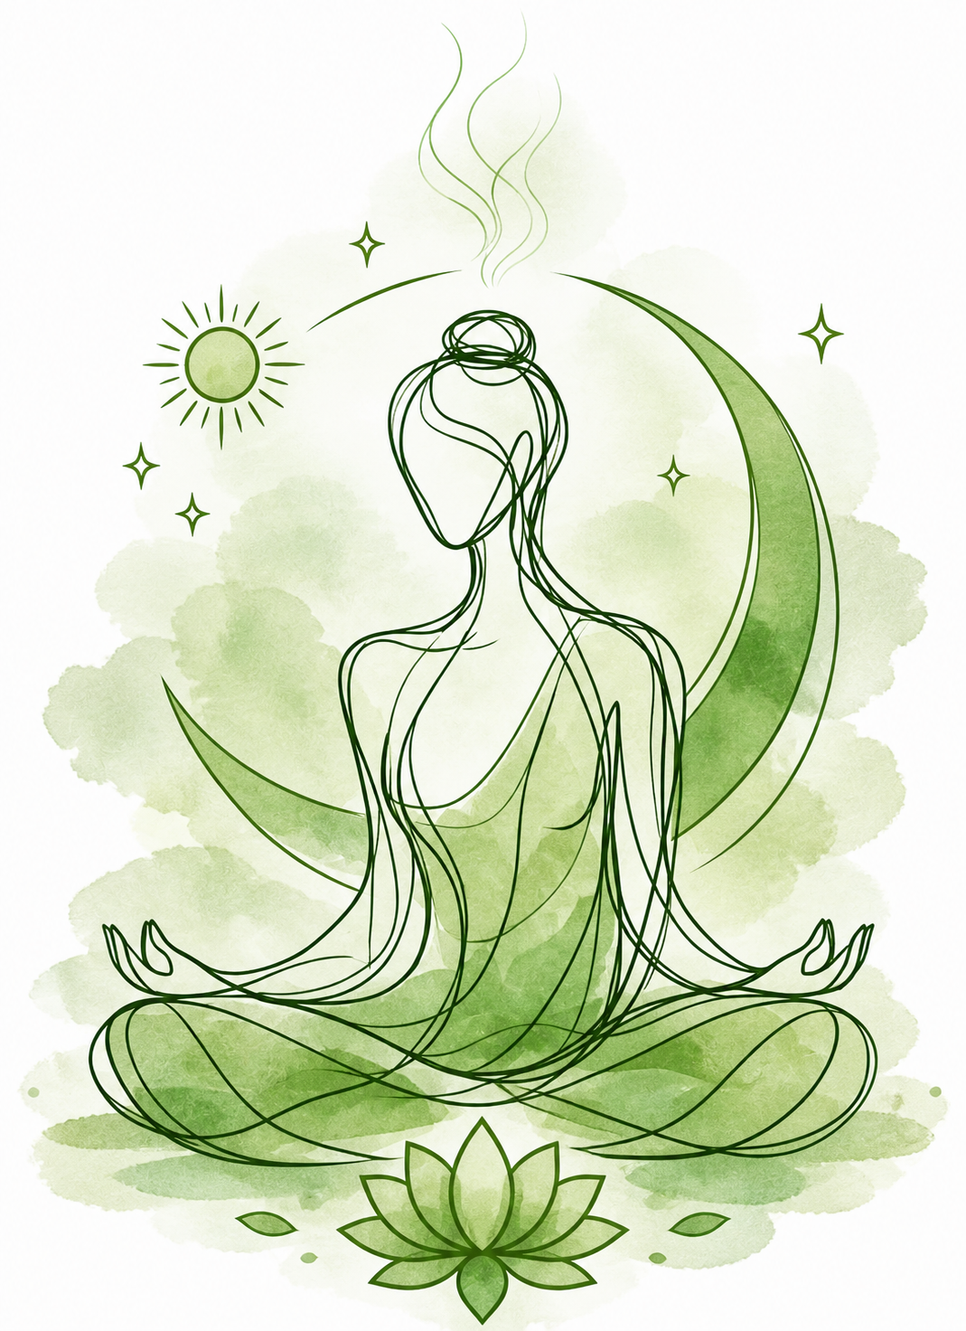
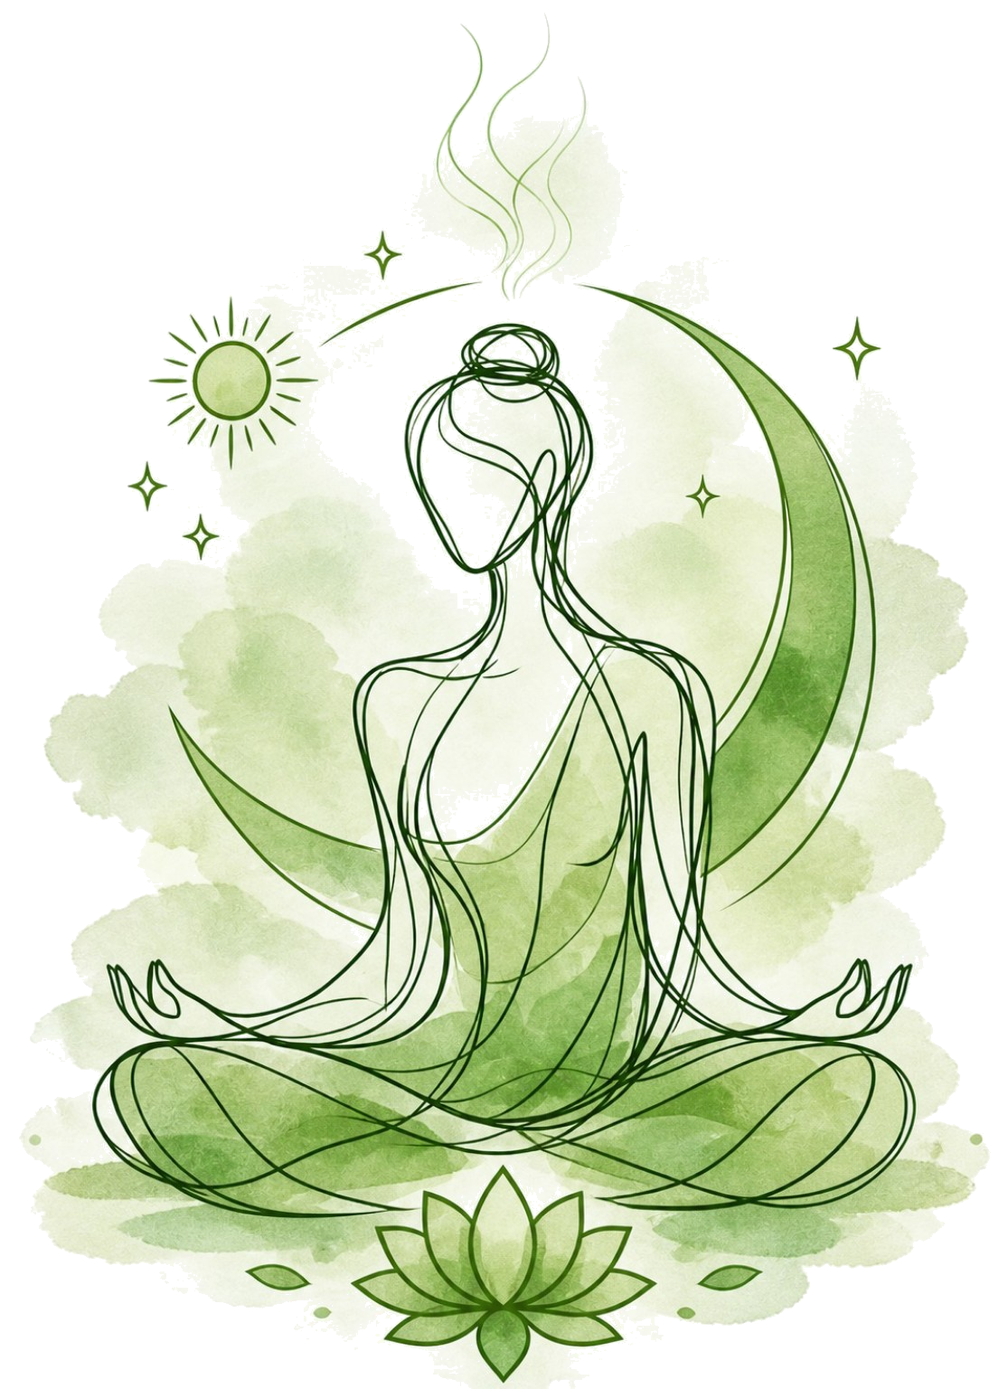
updated website

diff --git a/index.html b/index.html
@@ -3,8 +3,11 @@
 <head>
     <meta charset="UTF-8">
     <meta name="viewport" content="width=device-width, initial-scale=1.0">
-    <title>SK Yoga Classes | Jodhpur</title>
-    <meta name="description" content="Join Kamlesh Sir for traditional yoga classes in Jodhpur. Authentic Indian tradition for all ages. Hatha, Vinyasa, Pranayama, and Meditation.">
+    <title>S.K. Yoga Center Jodhpur | Traditional Yoga Classes</title>
+    <meta name="description" content="S.K. Yoga Center in Jodhpur — traditional yoga for all ages and families. Hatha, Vinyasa, Pranayama, Meditation. 16 years of experience. Guided by Kamlesh Sir.">
+    <meta name="keywords" content="yoga classes jodhpur, sk yoga center jodhpur, kamlesh sir yoga, hatha yoga jodhpur, yoga for beginners jodhpur, family yoga jodhpur, b road jodhpur yoga, yoga alliance jodhpur">
+    <meta name="geo.region" content="IN-RJ">
+    <meta name="geo.placename" content="Jodhpur">
     <link rel="preconnect" href="https://fonts.googleapis.com">
     <link rel="preconnect" href="https://fonts.gstatic.com" crossorigin>
     <link href="https://fonts.googleapis.com/css2?family=Cinzel:ital,wght@0,400;0,600;1,400&family=Jost:ital,wght@0,300;0,400;0,500;1,300&display=swap" rel="stylesheet">
@@ -15,7 +18,7 @@
     <!-- Section 1: Navbar -->
     <nav id="navbar" class="navbar">
         <div class="nav-container">
-            <div class="logo">SK Yoga Classes</div>
+            <div class="logo"><img src="SK yoga.jpeg" alt="S.K. Yoga Center Logo" style="height: 52px; width: 52px; object-fit: cover; border-radius: 50%; vertical-align: middle; margin-right: 8px;">S.K. Yoga Center</div>
             <div class="hamburger" id="hamburger">
                 <span></span>
                 <span></span>
@@ -33,7 +36,7 @@
     </nav>
 
     <!-- Floating WhatsApp Button -->
-    <a href="https://wa.me/91XXXXXXXXXX" class="floating-wa" target="_blank" rel="noopener noreferrer">
+    <a href="https://wa.me/919413501948?text=Hello%2C%20I%20am%20enquiring%20about%20yoga%20classes%20at%20S.K.%20Yoga%20Center%2C%20Jodhpur.%20Could%20you%20please%20share%20more%20details%3F" class="floating-wa" target="_blank" rel="noopener noreferrer">
         <svg viewBox="0 0 24 24" fill="currentColor" xmlns="http://www.w3.org/2000/svg">
             <path d="M12.031 0C5.4 0 .025 5.378.025 12.012c0 2.118.55 4.186 1.595 6.009L0 24l6.126-1.606c1.782.95 3.791 1.453 5.898 1.453h.005c6.629 0 12.004-5.379 12.004-12.013C24.033 5.378 18.66 0 12.031 0zm0 21.849h-.004c-1.788 0-3.541-.48-5.077-1.39l-.364-.216-3.774.989.999-3.681-.237-.377a10.02 10.02 0 01-1.543-5.328C2.03 5.485 7.4 1.115 12.031 1.115c4.633 0 10.003 4.37 10.003 10.005 0 5.632-5.37 10.729-10.003 10.729zm5.482-7.51c-.302-.15-1.782-.879-2.062-.979-.279-.1-.483-.15-.684.15-.202.302-.784.979-.96 1.18-.178.2-.355.225-.657.075-.302-.15-1.272-.468-2.42-1.49-.894-.796-1.498-1.78-1.674-2.08-.178-.3-.02-.465.13-.615.137-.137.302-.35.454-.525.15-.175.202-.3.302-.5.1-.2.05-.375-.025-.525-.075-.15-.684-1.65-.935-2.26-.245-.595-.494-.515-.684-.525-.178-.01-.383-.01-.584-.01-.2 0-.528.075-.805.375-.279.3-1.056 1.03-1.056 2.51s1.08 2.91 1.232 3.11c.15.2 2.118 3.23 5.127 4.53.715.31 1.274.495 1.708.635.719.23 1.373.195 1.888.12.576-.085 1.782-.73 2.034-1.435.252-.705.252-1.31.178-1.435-.075-.125-.279-.2-.581-.35z"/>
         </svg>
@@ -43,14 +46,14 @@
     <section id="home" class="hero section-padding">
         <div class="hero-content">
             <div class="hero-text">
-                <span class="label animate-element">SK Yoga Classes &middot; Jodhpur</span>
+                <span class="label animate-element">S.K. YOGA CENTER &middot; JODHPUR</span>
                 <h1 class="animate-element">Find Your Stillness.</h1>
                 <p class="subheading animate-element">Motion to Meditation</p>
                 <p class="body-text animate-element">Join Kamlesh Sir for traditional yoga classes in Jodhpur. All ages. All levels. All welcome.</p>
-                <a href="#classes" class="btn animate-element">Join a Class &rarr;</a>
+                <a href="https://wa.me/919413501948?text=Hello%2C%20I%20am%20enquiring%20about%20yoga%20classes%20at%20S.K.%20Yoga%20Center%2C%20Jodhpur.%20Could%20you%20please%20share%20more%20details%3F" class="btn animate-element" target="_blank" rel="noopener noreferrer">Join a Class &rarr;</a>
             </div>
             <div class="hero-image">
-                <img src="img1.png" alt="Yoga practice at SK Yoga Classes" loading="eager" class="animate-element">
+                <img src="img1.png" alt="Yoga practice at S.K. Yoga Center" loading="eager" class="animate-element">
             </div>
         </div>
     </section>
@@ -93,9 +96,9 @@
                 <span class="label animate-element">About Kamlesh Sir</span>
                 <h2 class="animate-element">Motion to Meditation.</h2>
                 <div class="gold-rule animate-element"></div>
-                <p class="animate-element">Kamlesh Sir has been guiding students through the ancient practice of yoga for over 20 years in the heart of Jodhpur, Rajasthan.</p>
-                <p class="animate-element">His teaching is rooted in classical Indian tradition — Hatha, Vinyasa, Pranayama, and deep Meditation — offered with warmth, patience, and devotion to every student who walks through the door.</p>
-                <p class="animate-element">Whether you are 8 or 80, a complete beginner or an experienced practitioner, SK Yoga Classes is your sanctuary.</p>
+                <p class="animate-element">Kamlesh Sir has been guiding students through the ancient practice of yoga for over 16 years in the heart of Jodhpur, Rajasthan.</p>
+                <p class="animate-element">His teaching is rooted in classical Indian tradition — Hatha, Vinyasa, Pranayama, and deep Meditation — offered with warmth, patience, and devotion to every student who walks through the door. He holds a Diploma in Yoga, M.A in Yoga, NET and JRF in Yoga, and is a certified Yoga Alliance 500-hour teacher.</p>
+                <p class="animate-element">Whether you are 8 or 80, a complete beginner or an experienced practitioner, S.K. Yoga Center is your sanctuary.</p>
                 <blockquote class="animate-element">Yoga is not what you do — it is what you become.</blockquote>
             </div>
             <div class="about-image">
@@ -121,7 +124,7 @@
                             <span class="tag">All Levels</span>
                             <span class="tag">Beginner</span>
                         </div>
-                        <a href="https://wa.me/91XXXXXXXXXX" class="enquire-link" target="_blank">Enquire &rarr;</a>
+                        <a href="https://wa.me/919413501948?text=Hello%2C%20I%20am%20enquiring%20about%20yoga%20classes%20at%20S.K.%20Yoga%20Center%2C%20Jodhpur.%20Could%20you%20please%20share%20more%20details%3F" class="enquire-link" target="_blank">Enquire &rarr;</a>
                     </div>
                 </div>
 
@@ -134,7 +137,7 @@
                             <span class="tag">All Levels</span>
                             <span class="tag">Advanced</span>
                         </div>
-                        <a href="https://wa.me/91XXXXXXXXXX" class="enquire-link" target="_blank">Enquire &rarr;</a>
+                        <a href="https://wa.me/919413501948?text=Hello%2C%20I%20am%20enquiring%20about%20yoga%20classes%20at%20S.K.%20Yoga%20Center%2C%20Jodhpur.%20Could%20you%20please%20share%20more%20details%3F" class="enquire-link" target="_blank">Enquire &rarr;</a>
                     </div>
                 </div>
 
@@ -146,7 +149,7 @@
                         <div class="tags">
                             <span class="tag">All Levels</span>
                         </div>
-                        <a href="https://wa.me/91XXXXXXXXXX" class="enquire-link" target="_blank">Enquire &rarr;</a>
+                        <a href="https://wa.me/919413501948?text=Hello%2C%20I%20am%20enquiring%20about%20yoga%20classes%20at%20S.K.%20Yoga%20Center%2C%20Jodhpur.%20Could%20you%20please%20share%20more%20details%3F" class="enquire-link" target="_blank">Enquire &rarr;</a>
                     </div>
                 </div>
 
@@ -158,7 +161,7 @@
                         <div class="tags">
                             <span class="tag">All Levels</span>
                         </div>
-                        <a href="https://wa.me/91XXXXXXXXXX" class="enquire-link" target="_blank">Enquire &rarr;</a>
+                        <a href="https://wa.me/919413501948?text=Hello%2C%20I%20am%20enquiring%20about%20yoga%20classes%20at%20S.K.%20Yoga%20Center%2C%20Jodhpur.%20Could%20you%20please%20share%20more%20details%3F" class="enquire-link" target="_blank">Enquire &rarr;</a>
                     </div>
                 </div>
 
@@ -169,49 +172,70 @@
                         <p>Practice together. Classes designed for families of all ages.</p>
                         <div class="tags">
                             <span class="tag">All Levels</span>
-                            <span class="tag">Families</span>
                         </div>
-                        <a href="https://wa.me/91XXXXXXXXXX" class="enquire-link" target="_blank">Enquire &rarr;</a>
+                        <a href="https://wa.me/919413501948?text=Hello%2C%20I%20am%20enquiring%20about%20yoga%20classes%20at%20S.K.%20Yoga%20Center%2C%20Jodhpur.%20Could%20you%20please%20share%20more%20details%3F" class="enquire-link" target="_blank">Enquire &rarr;</a>
                     </div>
                 </div>
             </div>
+            <p style="font-family: 'Jost', sans-serif; font-weight: 300; font-style: italic; text-align: center; color: #7AB896; margin-top: 2rem;">Also teaching at Center Academy School and Jai Narayan University, Jodhpur.</p>
         </div>
     </section>
 
     <!-- Section 6: Why Choose Us -->
     <section class="why-us section-padding">
         <div class="why-container">
-            <h2 class="animate-element">Why SK Yoga Classes</h2>
+            <h2 class="animate-element">Why S.K. Yoga Center</h2>
             <div class="why-grid">
                 <div class="why-card animate-card">
                     <div class="icon">
                         <svg viewBox="0 0 24 24" fill="none" stroke="currentColor" stroke-width="2" stroke-linecap="round" stroke-linejoin="round"><path d="M12 2l3 6 6 .5-4.5 4 1.5 6-6-3.5-6 3.5 1.5-6-4.5-4 6-.5 3-6z"/></svg>
                     </div>
                     <h3>Expert Guidance</h3>
-                    <p>Over 20 years of classical yoga teaching experience.</p>
+                    <p>Over 16 years of classical yoga teaching with Yoga Alliance 500-hour certification.</p>
                 </div>
                 <div class="why-card animate-card">
                     <div class="icon">
                         <svg viewBox="0 0 24 24" fill="none" stroke="currentColor" stroke-width="2" stroke-linecap="round" stroke-linejoin="round"><path d="M17 21v-2a4 4 0 0 0-4-4H5a4 4 0 0 0-4 4v2"/><circle cx="9" cy="7" r="4"/><path d="M23 21v-2a4 4 0 0 0-3-3.87"/><path d="M16 3.13a4 4 0 0 1 0 7.75"/></svg>
                     </div>
                     <h3>All Ages & Families</h3>
-                    <p>From children to seniors, everyone is welcome.</p>
+                    <p>From children to seniors, everyone is welcome at our studio.</p>
                 </div>
                 <div class="why-card animate-card">
                     <div class="icon">
                         <svg viewBox="0 0 24 24" fill="none" stroke="currentColor" stroke-width="2" stroke-linecap="round" stroke-linejoin="round"><circle cx="12" cy="12" r="10"/><path d="M2 12h20"/><path d="M12 2a15.3 15.3 0 0 1 4 10 15.3 15.3 0 0 1-4 10 15.3 15.3 0 0 1-4-10 15.3 15.3 0 0 1 4-10z"/></svg>
                     </div>
                     <h3>Authentic Indian Tradition</h3>
-                    <p>Classical Hatha, Pranayama, and Vedic practices.</p>
+                    <p>Classical Hatha, Pranayama, and Vedic practices rooted in Indian yoga tradition.</p>
                 </div>
                 <div class="why-card animate-card">
                     <div class="icon">
                         <svg viewBox="0 0 24 24" fill="none" stroke="currentColor" stroke-width="2" stroke-linecap="round" stroke-linejoin="round"><path d="M21 10c0 7-9 13-9 13s-9-6-9-13a9 9 0 0 1 18 0z"/><circle cx="12" cy="10" r="3"/></svg>
                     </div>
                     <h3>Heart of Jodhpur</h3>
-                    <p>Your trusted local studio in the Blue City.</p>
+                    <p>Your trusted local studio on 'B' Road, Jodhpur — the Blue City.</p>
                 </div>
             </div>
+        </div>
+    </section>
+
+    <!-- Section 6.5: Class Timings -->
+    <section class="timings" style="background: #0f1a14; text-align: center; padding: 3rem 2rem;">
+        <div style="max-width: 620px; margin: 0 auto;">
+            <h2 class="animate-element" style="font-family: 'Cinzel', serif; margin-bottom: 0.4rem; color: #C8E6D4;">Class Timings</h2>
+            <p class="section-sub animate-element" style="margin-bottom: 1.4rem;">Monday to Saturday &mdash; Sunday closed</p>
+            <hr style="border: none; border-top: 1px solid rgba(122,184,150,0.2); margin-bottom: 1.2rem;">
+            <div style="display: flex; flex-direction: column; gap: 0.7rem; margin-bottom: 1.2rem;">
+                <p class="animate-element" style="font-family: 'Jost', sans-serif; font-weight: 400; font-size: 16px; color: #C8E6D4; margin: 0; display: flex; align-items: center; justify-content: center; gap: 0.6rem;">
+                    <svg width="8" height="8" viewBox="0 0 8 8" fill="#7AB896" xmlns="http://www.w3.org/2000/svg"><circle cx="4" cy="4" r="4"/></svg>
+                    Morning Batch: 5:00 AM &ndash; 10:00 AM
+                </p>
+                <p class="animate-element" style="font-family: 'Jost', sans-serif; font-weight: 400; font-size: 16px; color: #C8E6D4; margin: 0; display: flex; align-items: center; justify-content: center; gap: 0.6rem;">
+                    <svg width="8" height="8" viewBox="0 0 8 8" fill="#7AB896" xmlns="http://www.w3.org/2000/svg"><circle cx="4" cy="4" r="4"/></svg>
+                    Evening Batch: 4:00 PM &ndash; 7:30 PM
+                </p>
+            </div>
+            <hr style="border: none; border-top: 1px solid rgba(122,184,150,0.2); margin-bottom: 1.2rem;">
+            <p class="animate-element" style="font-family: 'Cinzel', serif; font-style: italic; font-size: 15px; color: #7AB896; margin: 0;">First 2 days are FREE &mdash; come visit and try a class on us.</p>
         </div>
     </section>
 
@@ -232,7 +256,7 @@
                         <li>Family discount available</li>
                         <li>Personal guidance from Kamlesh Sir</li>
                     </ul>
-                    <a href="https://wa.me/91XXXXXXXXXX" class="price-btn" target="_blank">Enquire on WhatsApp &rarr;</a>
+                    <a href="https://wa.me/919413501948?text=Hello%2C%20I%20am%20enquiring%20about%20yoga%20classes%20at%20S.K.%20Yoga%20Center%2C%20Jodhpur.%20Could%20you%20please%20share%20more%20details%3F" class="price-btn" target="_blank">Enquire on WhatsApp &rarr;</a>
                 </div>
 
                 <div class="price-card featured animate-card">
@@ -246,7 +270,7 @@
                         <li>Family discount available</li>
                         <li>Personal guidance from Kamlesh Sir</li>
                     </ul>
-                    <a href="https://wa.me/91XXXXXXXXXX" class="price-btn" target="_blank">Enquire on WhatsApp &rarr;</a>
+                    <a href="https://wa.me/919413501948?text=Hello%2C%20I%20am%20enquiring%20about%20yoga%20classes%20at%20S.K.%20Yoga%20Center%2C%20Jodhpur.%20Could%20you%20please%20share%20more%20details%3F" class="price-btn" target="_blank">Enquire on WhatsApp &rarr;</a>
                 </div>
 
                 <div class="price-card animate-card">
@@ -259,7 +283,7 @@
                         <li>Family discount available</li>
                         <li>Personal guidance from Kamlesh Sir</li>
                     </ul>
-                    <a href="https://wa.me/91XXXXXXXXXX" class="price-btn" target="_blank">Enquire on WhatsApp &rarr;</a>
+                    <a href="https://wa.me/919413501948?text=Hello%2C%20I%20am%20enquiring%20about%20yoga%20classes%20at%20S.K.%20Yoga%20Center%2C%20Jodhpur.%20Could%20you%20please%20share%20more%20details%3F" class="price-btn" target="_blank">Enquire on WhatsApp &rarr;</a>
                 </div>
             </div>
         </div>
@@ -273,7 +297,7 @@
 
             <div class="masonry-grid">
                 <div class="masonry-item animate-card" style="height: 200px;">
-                    <div class="gallery-placeholder">Yoga class photo</div>
+                    <img src="Screenshot 2026-03-14 153500.png" alt="Yoga class photo" style="width: 100%; height: 100%; object-fit: cover;">
                     <div class="overlay"><span>View +</span></div>
                 </div>
                 <div class="masonry-item animate-card" style="height: 260px;">
@@ -304,7 +328,7 @@
     <div id="lightbox" class="lightbox">
         <button id="lightbox-close" class="lightbox-close">&times;</button>
         <div class="lightbox-content">
-            <div class="lightbox-placeholder">Yoga class photo</div>
+            <img id="lightbox-img" src="" alt="Gallery Image">
         </div>
     </div>
 
@@ -322,7 +346,7 @@
                         <div class="avatar">SK</div>
                         <div class="author-info">
                             <span class="name">SK</span>
-                            <span class="title">Student &middot; SK Yoga Classes</span>
+                            <span class="title">Student &middot; S.K. Yoga Center</span>
                         </div>
                     </div>
                 </div>
@@ -335,7 +359,7 @@
                         <div class="avatar">RP</div>
                         <div class="author-info">
                             <span class="name">RP</span>
-                            <span class="title">Student &middot; SK Yoga Classes</span>
+                            <span class="title">Student &middot; S.K. Yoga Center</span>
                         </div>
                     </div>
                 </div>
@@ -348,7 +372,7 @@
                         <div class="avatar">AM</div>
                         <div class="author-info">
                             <span class="name">AM</span>
-                            <span class="title">Student &middot; SK Yoga Classes</span>
+                            <span class="title">Student &middot; S.K. Yoga Center</span>
                         </div>
                     </div>
                 </div>
@@ -360,8 +384,8 @@
     <section class="cta-band section-padding">
         <div class="cta-container">
             <h2 class="animate-element">Begin Your Journey.</h2>
-            <p class="animate-element">Join SK Yoga Classes in Jodhpur. All ages. All levels. All welcome.</p>
-            <a href="https://wa.me/91XXXXXXXXXX" class="cta-btn animate-element" target="_blank">Chat With Us on WhatsApp &rarr;</a>
+            <p class="animate-element">Join S.K. Yoga Center in Jodhpur. All ages. All levels. All welcome.</p>
+            <a href="https://wa.me/919413501948?text=Hello%2C%20I%20am%20enquiring%20about%20yoga%20classes%20at%20S.K.%20Yoga%20Center%2C%20Jodhpur.%20Could%20you%20please%20share%20more%20details%3F" class="cta-btn animate-element" target="_blank">Chat With Us on WhatsApp &rarr;</a>
         </div>
     </section>
 
@@ -369,38 +393,39 @@
     <section id="contact" class="contact section-padding">
         <div class="contact-container">
             <div class="contact-left animate-element">
-                <span class="label">Find Us</span>
-                <h2>Visit SK Yoga Classes</h2>
+                <span class="label">FIND US</span>
+                <h2>Visit S.K. Yoga Center</h2>
                 <div class="details">
-                    <p>📍 Jodhpur, Rajasthan</p>
-                    <p>📞 +91 XXXXXXXXXX</p>
-                    <p>⏰ Morning Batch: 6:00 AM &ndash; 8:00 AM</p>
-                    <p>⏰ Evening Batch: 5:30 PM &ndash; 7:30 PM</p>
+                    <p>&#128205; Bhagoy Shree Tower, Jahm Villas, Near Hawant Garden, Pota 'B' Road, Jodhpur, Rajasthan 342001</p>
+                    <p>&#128222; +91 94135 01948</p>
+                    <p>&#128222; +91 74249 68930</p>
+                    <p>&#9200; Morning Batch: 5:00 AM &ndash; 10:00 AM</p>
+                    <p>&#9200; Evening Batch: 4:00 PM &ndash; 7:30 PM</p>
                 </div>
-                <a href="https://wa.me/91XXXXXXXXXX" class="contact-btn" target="_blank">Message on WhatsApp &rarr;</a>
+                <a href="https://wa.me/919413501948?text=Hello%2C%20I%20am%20enquiring%20about%20yoga%20classes%20at%20S.K.%20Yoga%20Center%2C%20Jodhpur.%20Could%20you%20please%20share%20more%20details%3F" class="contact-btn" target="_blank">Message on WhatsApp &rarr;</a>
                 <div class="socials">
-                    <a href="#" aria-label="Instagram">
+                    <a href="https://www.instagram.com/sk_yoga_center" aria-label="Instagram" target="_blank" rel="noopener noreferrer">
                         <svg viewBox="0 0 24 24" fill="none" stroke="currentColor" stroke-width="2" stroke-linecap="round" stroke-linejoin="round"><rect x="2" y="2" width="20" height="20" rx="5" ry="5"/><path d="M16 11.37A4 4 0 1 1 12.63 8 4 4 0 0 1 16 11.37z"/><line x1="17.5" y1="6.5" x2="17.51" y2="6.5"/></svg>
                     </a>
-                    <a href="#" aria-label="Facebook">
+                    <a href="https://www.facebook.com/search/top?q=Kamlesh+Yogi" aria-label="Facebook" target="_blank" rel="noopener noreferrer">
                         <svg viewBox="0 0 24 24" fill="none" stroke="currentColor" stroke-width="2" stroke-linecap="round" stroke-linejoin="round"><path d="M18 2h-3a5 5 0 0 0-5 5v3H7v4h3v8h4v-8h3l1-4h-4V7a1 1 0 0 1 1-1h3z"/></svg>
                     </a>
-                    <a href="#" aria-label="YouTube">
+                    <a href="https://www.youtube.com/results?search_query=Kamlesh+Perjapati" aria-label="YouTube" target="_blank" rel="noopener noreferrer">
                         <svg viewBox="0 0 24 24" fill="none" stroke="currentColor" stroke-width="2" stroke-linecap="round" stroke-linejoin="round"><path d="M22.54 6.42a2.78 2.78 0 0 0-1.94-2C18.88 4 12 4 12 4s-6.88 0-8.6.46a2.78 2.78 0 0 0-1.94 2A29 29 0 0 0 1 11.75a29 29 0 0 0 .46 5.33 2.78 2.78 0 0 0 1.94 2c1.72.46 8.6.46 8.6.46s6.88 0 8.6-.46a2.78 2.78 0 0 0 1.94-2 29 29 0 0 0 .46-5.33 29 29 0 0 0-.46-5.33z"/><polygon points="9.75 15.02 15.5 11.75 9.75 8.48 9.75 15.02"/></svg>
                     </a>
                 </div>
             </div>
             <div class="contact-right animate-element">
                 <!-- Embedded Google Map for Jodhpur -->
-                <iframe src="https://www.google.com/maps/embed?pb=!1m18!1m12!1m3!1d114400.12269225883!2d72.93721796781295!3d26.270119865610264!2m3!1f0!2f0!3f0!3m2!1i1024!2i768!4f13.1!3m3!1m2!1s0x39418c4eaa06fcb9%3A0x7d6a54f06554b426!2sJodhpur%2C%20Rajasthan!5e0!3m2!1sen!2sin!4v1700000000000!5m2!1sen!2sin" width="100%" height="320" style="border:0;" allowfullscreen="" loading="lazy" referrerpolicy="no-referrer-when-downgrade"></iframe>
+                <iframe src="https://www.google.com/maps/embed?pb=!1m18!1m12!1m3!1d3578.8!2d73.0243!3d26.2389!2m3!1f0!2f0!3f0!3m2!1i1024!2i768!4f13.1!3m3!1m2!1s0x39418bf1b7a3de67%3A0xa8bfb5c16789e46a!2sB+Road%2C+Jodhpur%2C+Rajasthan!5e0!3m2!1sen!2sin!4v1715000000000!5m2!1sen!2sin" width="100%" height="320" style="border:0;" allowfullscreen="" loading="lazy" referrerpolicy="no-referrer-when-downgrade"></iframe>
             </div>
         </div>
     </section>
 
     <footer class="footer">
         <div class="footer-container">
-            <div class="footer-left">SK Yoga Classes &middot; Jodhpur, Rajasthan</div>
-            <div class="footer-right">&copy; 2025 SK Yoga Classes. All rights reserved.</div>
+            <div class="footer-left">S.K. Yoga Center &middot; Jodhpur, Rajasthan</div>
+            <div class="footer-right">&copy; 2025 S.K. Yoga Center. All rights reserved.</div>
         </div>
     </footer>
 

diff --git a/script.js b/script.js
@@ -124,12 +124,17 @@ document.addEventListener('DOMContentLoaded', () => {
     const masonryItems = document.querySelectorAll('.masonry-item');
     const lightbox = document.getElementById('lightbox');
     const lightboxClose = document.getElementById('lightbox-close');
+    const lightboxImg = document.getElementById('lightbox-img');
 
-    if (masonryItems && lightbox) {
+    if (masonryItems && lightbox && lightboxImg) {
         masonryItems.forEach(item => {
             item.addEventListener('click', () => {
-                lightbox.classList.add('active');
-                body.style.overflow = 'hidden';
+                const img = item.querySelector('img');
+                if (img) {
+                    lightboxImg.src = img.src;
+                    lightbox.classList.add('active');
+                    body.style.overflow = 'hidden';
+                }
             });
         });
 

diff --git a/styles.css b/styles.css
@@ -711,19 +711,17 @@ ul {
 }
 
 .lightbox-content {
-    width: 80%;
-    height: 80%;
-    background-color: var(--cream);
+    width: 90%;
+    height: 90%;
     display: flex;
     justify-content: center;
     align-items: center;
-    border-radius: 4px;
 }
 
-.lightbox-placeholder {
-    font-size: 16px;
-    color: var(--gold);
-    font-weight: 300;
+#lightbox-img {
+    max-width: 100%;
+    max-height: 100%;
+    object-fit: contain;
 }
 
 /* Testimonials */
